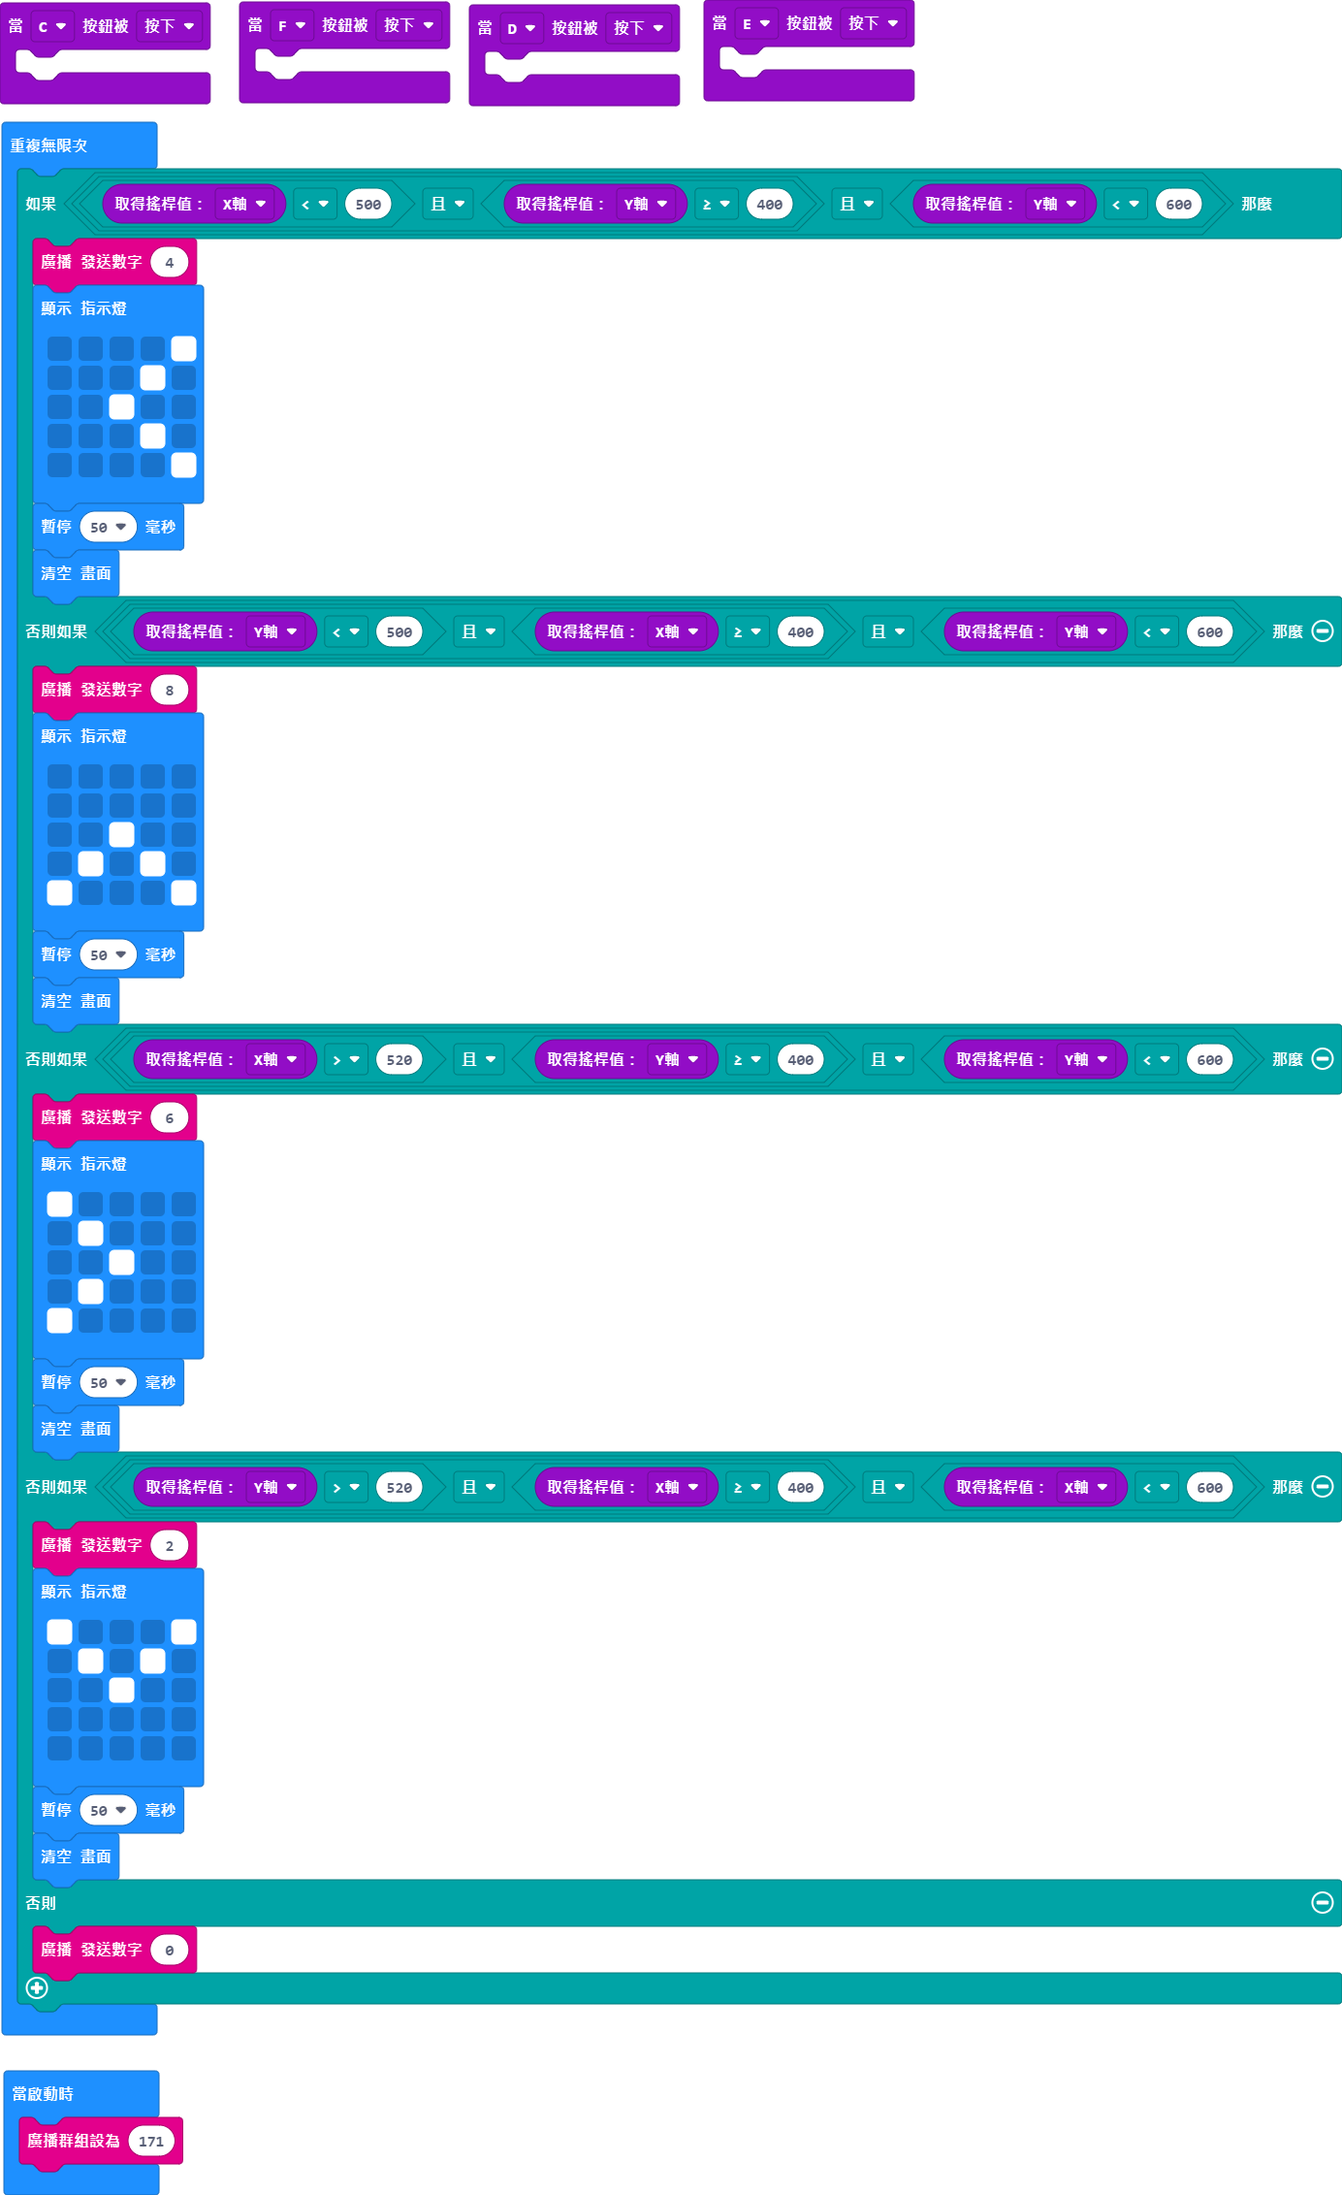
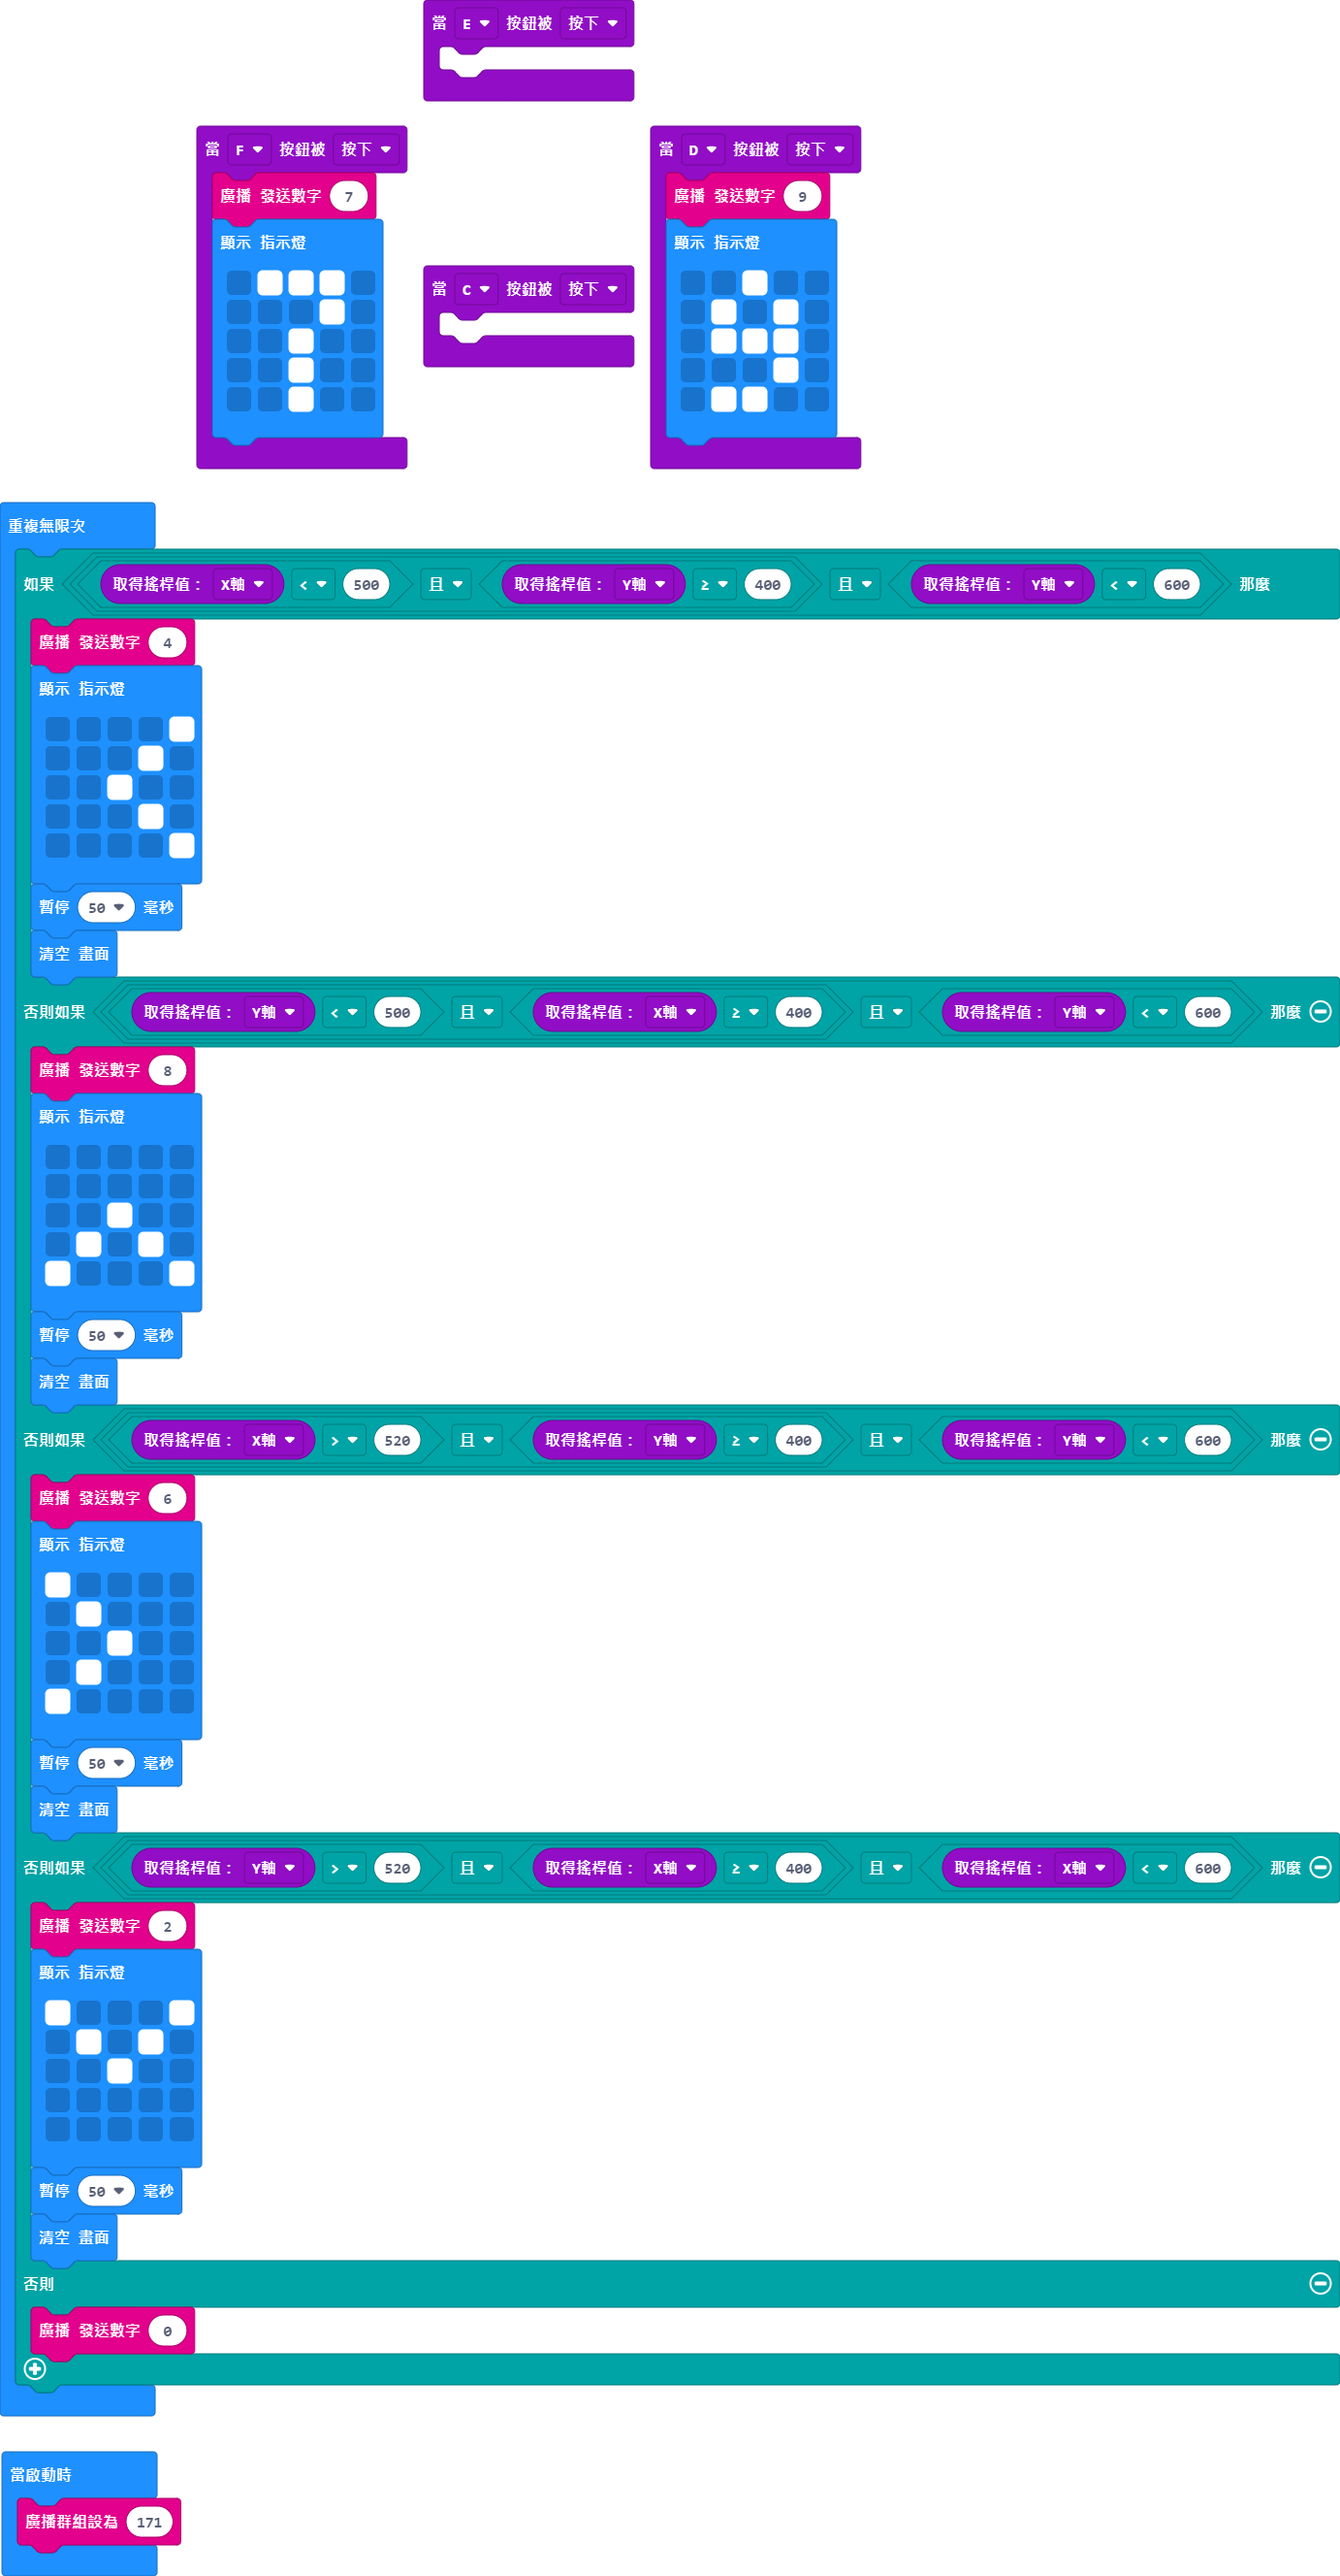
更新 main.blocks, main.ts

diff --git a/main.ts b/main.ts
@@ -2,10 +2,24 @@ KSB045.onBtnChanged(KSB045.btnName.C, KSB045.pushType.down, function () {
 	
 })
 KSB045.onBtnChanged(KSB045.btnName.D, KSB045.pushType.down, function () {
-	
+    radio.sendNumber(9)
+    basic.showLeds(`
+        . . # . .
+        . # . # .
+        . # # # .
+        . . . # .
+        . # # . .
+        `)
 })
 KSB045.onBtnChanged(KSB045.btnName.F, KSB045.pushType.down, function () {
-	
+    radio.sendNumber(7)
+    basic.showLeds(`
+        . # # # .
+        . . . # .
+        . . # . .
+        . . # . .
+        . . # . .
+        `)
 })
 KSB045.onBtnChanged(KSB045.btnName.E, KSB045.pushType.down, function () {
 	
